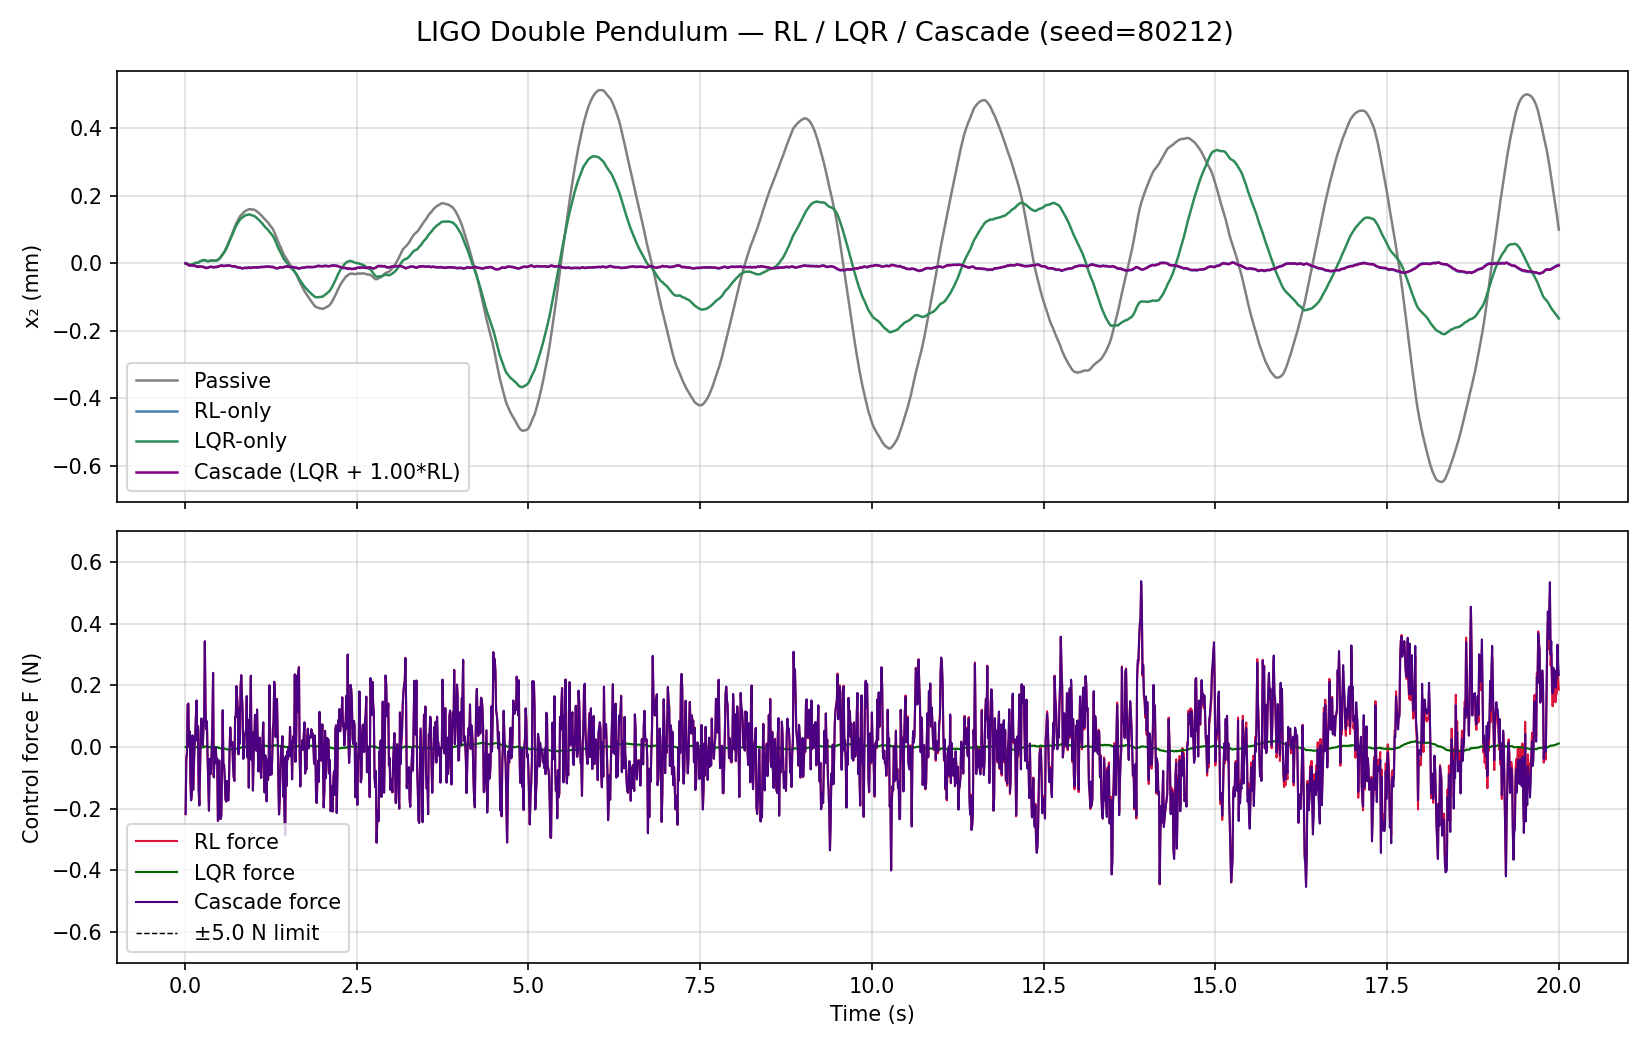
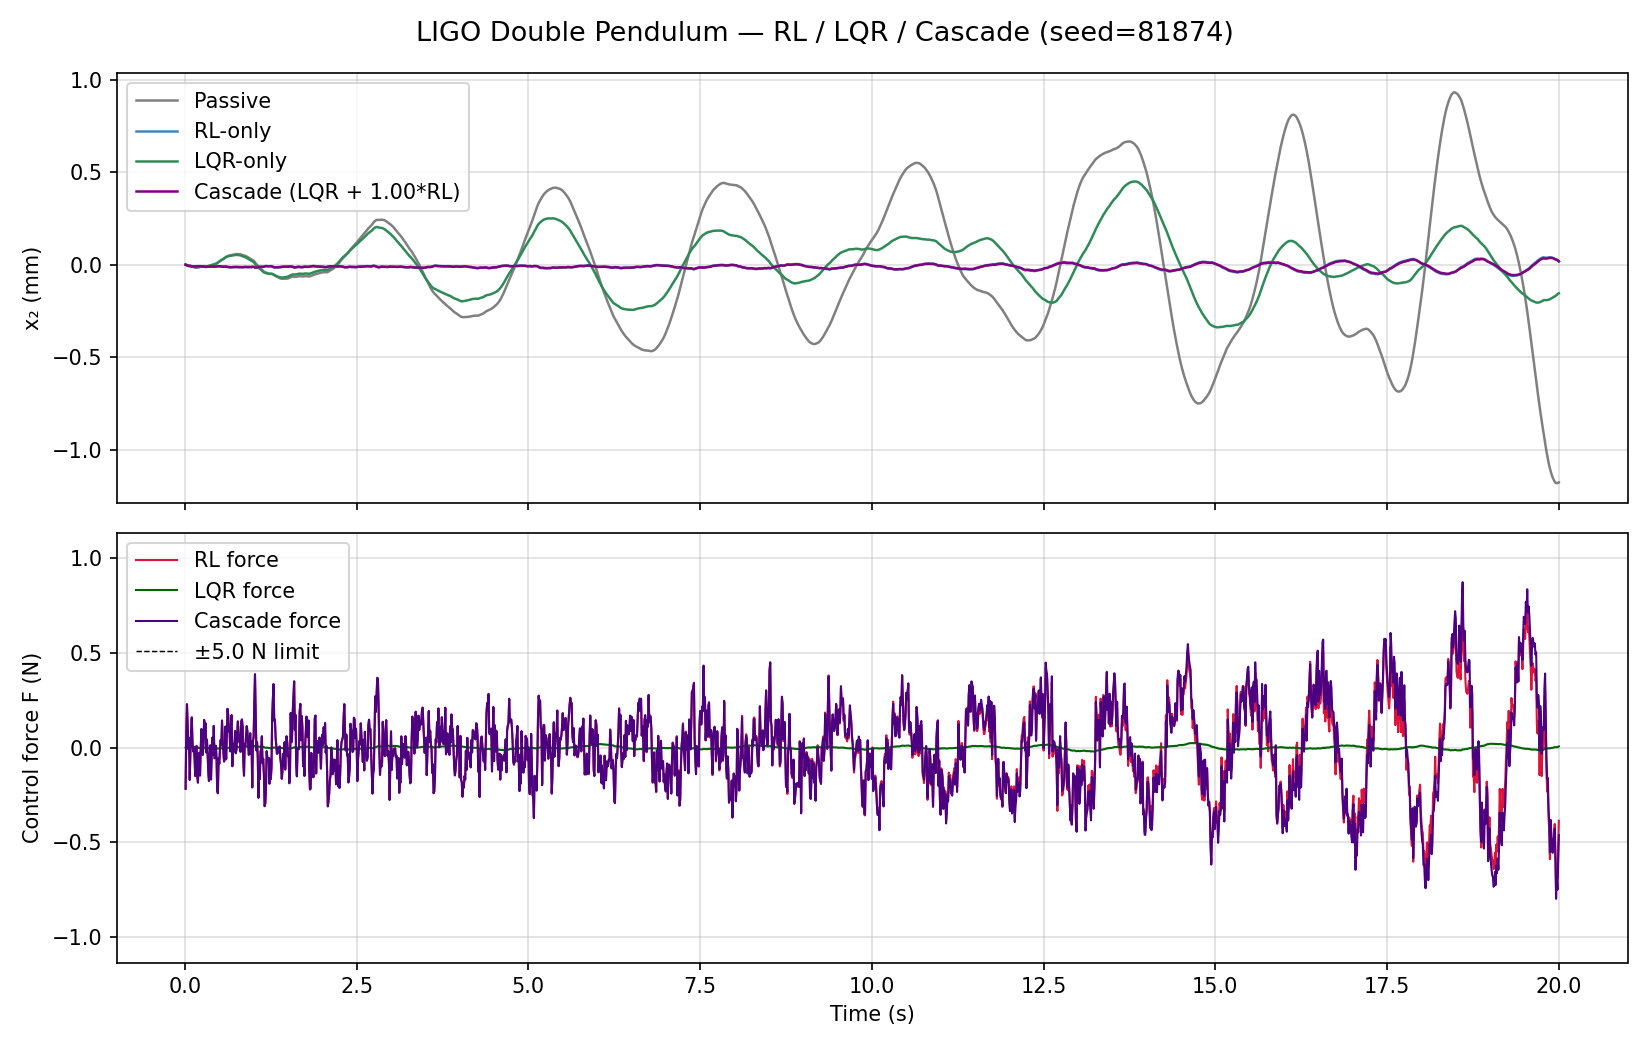
Update RL/LQR artifacts and README summary

Changed region(s): [[0.0, 0.0, 0.9891, 0.9143], [0.0309, 0.7619, 0.0618, 0.8533], [0.9273, 0.3352, 0.9582, 0.3962]]

diff --git a/README.md b/README.md
@@ -172,20 +172,30 @@ Then compare runs in W&B by metrics such as `rms_rl_mm`, `rms_lqr_mm`, `rms_casc
 ## Latest Auto-Generated Run Summary
 
 ### RL (latest run)
-- Seed: `80212`
-- Passive RMS x2: `0.295 mm`
-- RL RMS x2: `0.006 mm`
-- Improvement factor (passive/RL): `48.72x`
+- Seed: `81874`
+- Passive RMS x2: `0.389 mm`
+- RL RMS x2: `0.016 mm`
+- Improvement factor (passive/RL): `23.89x`
 - Reward initial/final: `-178.2191 -> -0.0163`
 - No-noise regulation final |x2|: `96.748 mm`
 - Interpretation: If improvement is < 1.0x, the policy is still underperforming passive isolation and reward scaling/actuation strategy should be revisited.
 
 ### Simple controls / LQR (latest run)
-- Seed: `80463`
-- Passive RMS x2: `65.850 mm`
-- LQR RMS x2: `12.827 mm`
-- Improvement factor (passive/LQR): `5.13x`
+- Seed: `81902`
+- Passive RMS x2: `32.745 mm`
+- LQR RMS x2: `7.227 mm`
+- Improvement factor (passive/LQR): `4.53x`
 - Interpretation: This is your near-equilibrium model-based baseline; RL should eventually match or exceed this over repeated seeds.
+
+### Unified evaluation modes (same seed)
+- Seed: `81874`
+- RL-only RMS x2: `0.016 mm`
+- LQR-only RMS x2: `0.156 mm`
+- Cascade RMS x2: `0.015 mm`
+- Bad-LQR RMS x2: `0.240 mm`
+- Bad-Cascade RMS x2: `0.015 mm`
+- Cascade alpha: `1.00`
+- Bad-LQR scale: `0.35`
 
 ### How to read the plots
 - **Time-domain x2 plot**: smaller oscillation envelope means better isolation of the bottom mirror displacement.
